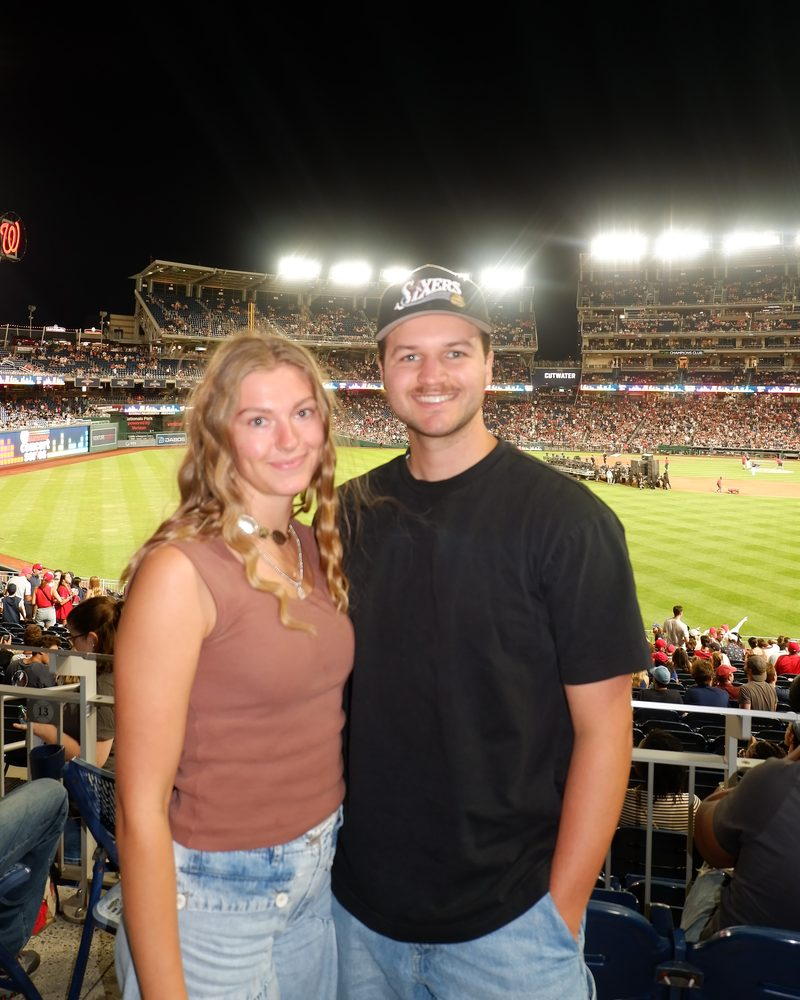
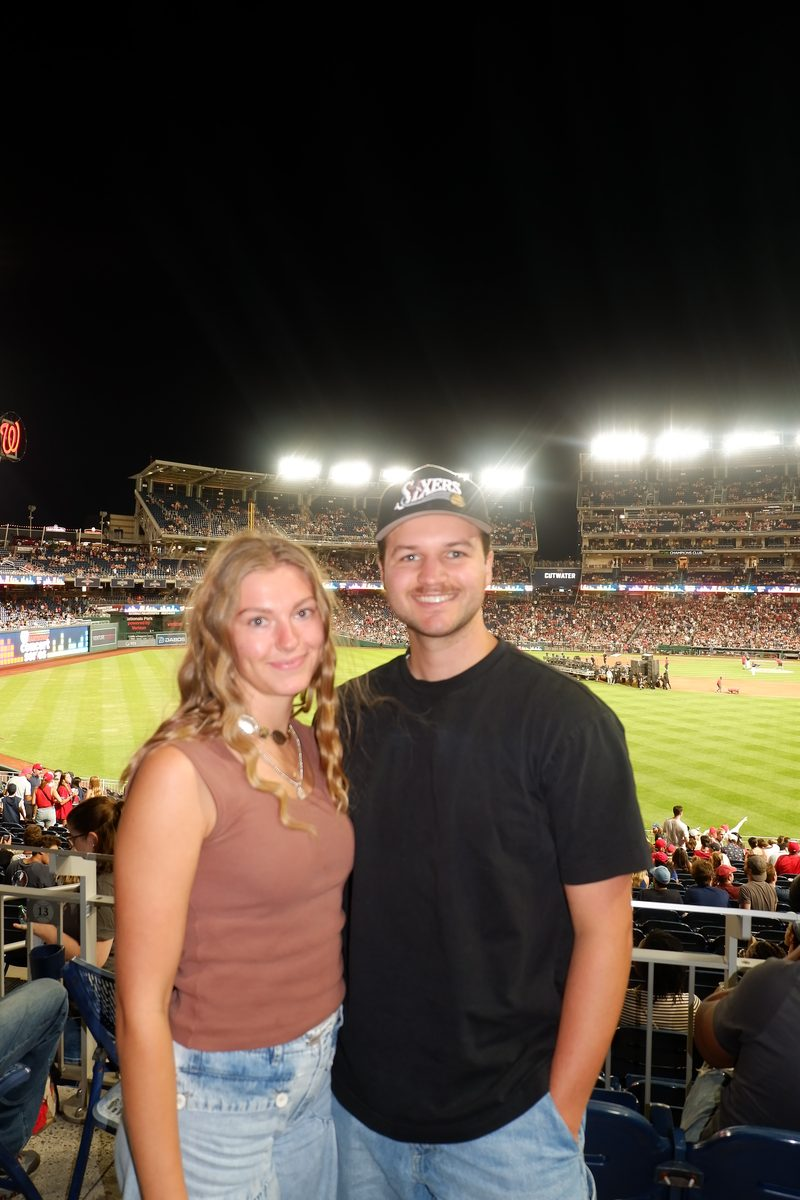
About page: compact contact rail, photo matches text height

diff --git a/styles.css b/styles.css
@@ -346,26 +346,38 @@ body {
 /* About text + photo side by side inside the body column */
 .about-body {
   display: flex;
-  align-items: flex-start;
+  align-items: stretch;            /* photo column matches the text column's height */
   gap: 36px;
 }
 .about-text { flex: 1; min-width: 0; }
 .about-photo {
-  flex: 0 0 240px;
-  margin: 6px 0 0;
+  flex: 0 0 340px;
+  margin: 0;
 }
 .about-photo img {
   display: block;
   width: 100%;
-  height: auto;
+  height: 100%;
+  object-fit: cover;               /* fill the column; trims night sky off the top first */
+  object-position: 50% 100%;
   border-radius: 10px;
   box-shadow: 0 6px 20px rgba(24, 24, 27, 0.14);
 }
 
+/* compact contact rail on the About page */
+.contact-aside { flex-basis: 250px; padding: 22px 22px; }
+.contact-aside .contact-heading { font-size: 1.3rem; padding-bottom: 5px; }
+.contact-aside .contact-list { margin-top: 18px; gap: 12px; }
+.contact-aside .contact-link { gap: 10px; }
+.contact-aside .contact-icon { width: 34px; height: 34px; }
+.contact-aside .contact-icon svg { width: 16px; height: 16px; }
+.contact-aside .contact-handle { font-size: 0.78rem; }
+
 /* not enough room for three columns: photo drops under the text */
 @media (max-width: 1080px) {
   .about-body { flex-direction: column; gap: 28px; }
-  .about-photo { flex: none; width: 100%; max-width: 300px; margin: 0; }
+  .about-photo { flex: none; width: 100%; max-width: 360px; margin: 0; }
+  .about-photo img { height: auto; aspect-ratio: 4 / 5; }
 }
 
 .contact-heading {

diff --git a/about.html b/about.html
@@ -7,7 +7,7 @@
   <link rel="preconnect" href="https://fonts.googleapis.com">
   <link rel="preconnect" href="https://fonts.gstatic.com" crossorigin>
   <link href="https://fonts.googleapis.com/css2?family=Inter:wght@400;500;600;700&family=Newsreader:opsz,wght@6..72,400;6..72,500;6..72,600;6..72,700&display=swap" rel="stylesheet">
-  <link rel="stylesheet" href="styles.css?v=4">
+  <link rel="stylesheet" href="styles.css?v=5">
 </head>
 <body>
   <header class="site-header">
@@ -76,7 +76,7 @@
         </div>
 
         <figure class="about-photo">
-          <img src="assets/about-baseball.jpg" alt="Rylan Miller at a night baseball game at Nationals Park" width="800" height="1000">
+          <img src="assets/about-baseball.jpg" alt="Rylan Miller at a night baseball game at Nationals Park" width="800" height="1200">
         </figure>
       </div>
     </div>

diff --git a/cv.html b/cv.html
@@ -7,7 +7,7 @@
   <link rel="preconnect" href="https://fonts.googleapis.com">
   <link rel="preconnect" href="https://fonts.gstatic.com" crossorigin>
   <link href="https://fonts.googleapis.com/css2?family=Inter:wght@400;500;600;700&family=Newsreader:opsz,wght@6..72,400;6..72,500;6..72,600;6..72,700&display=swap" rel="stylesheet">
-  <link rel="stylesheet" href="styles.css?v=4">
+  <link rel="stylesheet" href="styles.css?v=5">
 </head>
 <body>
   <header class="site-header">

diff --git a/data.html b/data.html
@@ -7,7 +7,7 @@
   <link rel="preconnect" href="https://fonts.googleapis.com">
   <link rel="preconnect" href="https://fonts.gstatic.com" crossorigin>
   <link href="https://fonts.googleapis.com/css2?family=Inter:wght@400;500;600;700&family=Newsreader:opsz,wght@6..72,400;6..72,500;6..72,600;6..72,700&display=swap" rel="stylesheet">
-  <link rel="stylesheet" href="styles.css?v=4">
+  <link rel="stylesheet" href="styles.css?v=5">
 </head>
 <body>
   <header class="site-header">

diff --git a/ideas.html b/ideas.html
@@ -7,7 +7,7 @@
   <link rel="preconnect" href="https://fonts.googleapis.com">
   <link rel="preconnect" href="https://fonts.gstatic.com" crossorigin>
   <link href="https://fonts.googleapis.com/css2?family=Inter:wght@400;500;600;700&family=Newsreader:opsz,wght@6..72,400;6..72,500;6..72,600;6..72,700&display=swap" rel="stylesheet">
-  <link rel="stylesheet" href="styles.css?v=4">
+  <link rel="stylesheet" href="styles.css?v=5">
 </head>
 <body>
   <header class="site-header">

diff --git a/index.html b/index.html
@@ -7,7 +7,7 @@
   <link rel="preconnect" href="https://fonts.googleapis.com">
   <link rel="preconnect" href="https://fonts.gstatic.com" crossorigin>
   <link href="https://fonts.googleapis.com/css2?family=Inter:wght@400;500;600;700&family=Newsreader:opsz,wght@6..72,400;6..72,500;6..72,600;6..72,700&display=swap" rel="stylesheet">
-  <link rel="stylesheet" href="styles.css?v=4">
+  <link rel="stylesheet" href="styles.css?v=5">
 </head>
 <body>
   <header class="site-header">

diff --git a/research.html b/research.html
@@ -7,7 +7,7 @@
   <link rel="preconnect" href="https://fonts.googleapis.com">
   <link rel="preconnect" href="https://fonts.gstatic.com" crossorigin>
   <link href="https://fonts.googleapis.com/css2?family=Inter:wght@400;500;600;700&family=Newsreader:opsz,wght@6..72,400;6..72,500;6..72,600;6..72,700&display=swap" rel="stylesheet">
-  <link rel="stylesheet" href="styles.css?v=4">
+  <link rel="stylesheet" href="styles.css?v=5">
 </head>
 <body>
   <header class="site-header">
